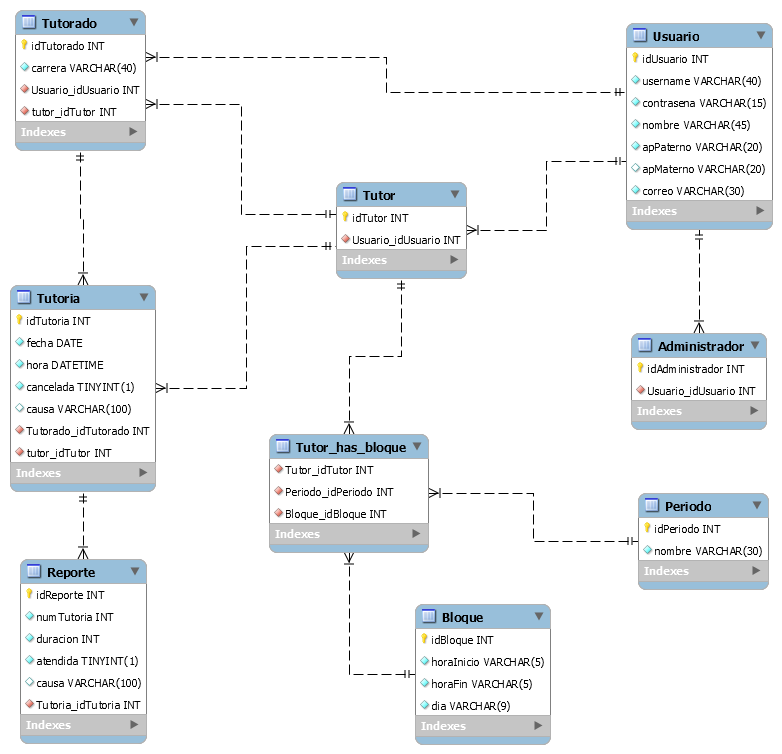
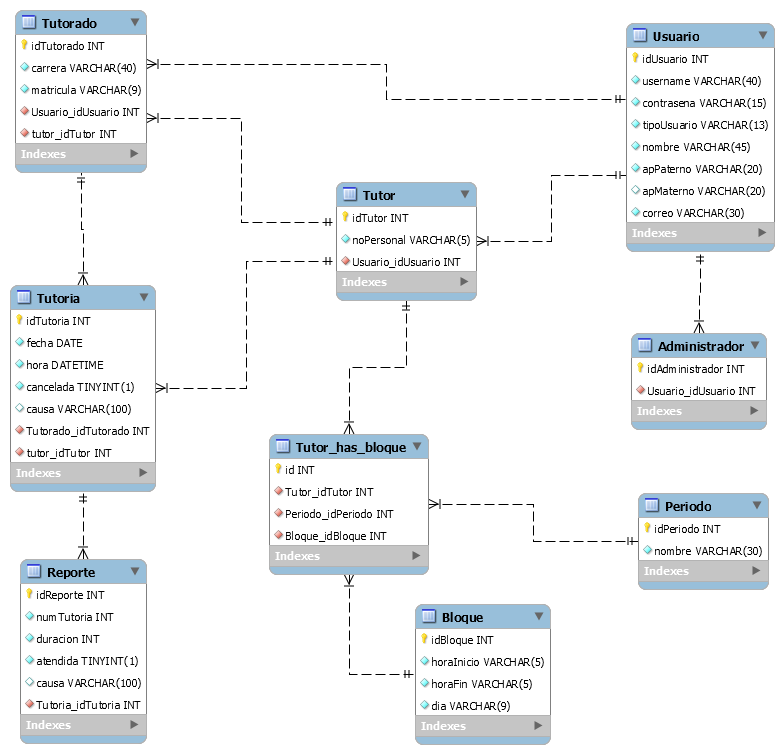
Se agregó funcionalidad a los casos de uso del administrador

diff --git a/TutoCitasCliente/src/fxml/RegistrarTutoradoController.java b/TutoCitasCliente/src/fxml/RegistrarTutoradoController.java
@@ -1,14 +1,32 @@
 package fxml;
 
+import cliente.Cliente;
+import contexto.Contexto;
+import entidades.Tutor;
+import entidades.Tutorado;
+import entidades.Usuario;
+import interfaces.InterfazServidor;
+import java.io.IOException;
 import java.net.URL;
+import java.rmi.RemoteException;
+import java.util.List;
 import java.util.ResourceBundle;
+import javafx.collections.FXCollections;
+import javafx.collections.ObservableList;
+import javafx.event.ActionEvent;
 import javafx.fxml.FXML;
+import javafx.fxml.FXMLLoader;
 import javafx.fxml.Initializable;
+import javafx.scene.Parent;
+import javafx.scene.Scene;
+import javafx.scene.control.Alert;
+import javafx.scene.control.Alert.AlertType;
 import javafx.scene.control.Button;
 import javafx.scene.control.ComboBox;
 import javafx.scene.control.Label;
 import javafx.scene.control.PasswordField;
 import javafx.scene.control.TextField;
+import javafx.stage.Stage;
 
 /**
  * FXML Controller class
@@ -35,13 +53,90 @@ public class RegistrarTutoradoController implements Initializable {
   @FXML private TextField txfCorreo;
   @FXML private TextField txfMatricula;
   @FXML private TextField txfNombre;
+  
+  private Cliente cliente;
+  private InterfazServidor servidor;
+  private List<Tutor> tutores;
+  
+  @FXML
+  void cancelar(ActionEvent evt) throws IOException {
+    //Se cierra la ventana
+    Stage stageRegistrarTutorado;
+    stageRegistrarTutorado = (Stage) btnCancelar.getScene().getWindow();
+    stageRegistrarTutorado.close();
+    //Se regresa al menú del administrador
+    Stage stageMenuAdministrador = new Stage();
+    FXMLLoader loader = new FXMLLoader();
+    loader.setLocation(getClass().getResource("/fxml/MenuAdministrador.fxml"));
+    Parent root = loader.load();
+    Scene scene = new Scene(root);
+    stageMenuAdministrador.setScene(scene);
+    stageMenuAdministrador.show();
+  }
+  
+  @FXML
+  void registrar(ActionEvent evt) throws IOException {
+    String nombre = txfNombre.getText();
+    String apPaterno = txfApPaterno.getText();
+    String apMaterno = txfApMaterno.getText();
+    String correo = txfCorreo.getText();
+    String carrera = txfCarrera.getText();
+    String matricula = txfMatricula.getText();
+    String contrasena = pwfContrasena.getText();
+    Tutor tutor = (Tutor) cmbTutor.getValue();
+    if (!nombre.isEmpty() && !apPaterno.isEmpty() && !correo.isEmpty() && !carrera.isEmpty()
+        && !matricula.isEmpty() && !contrasena.isEmpty()) {
+      //Se crea el usuario
+      Usuario usuario = new Usuario(matricula, contrasena, "Tutorado", nombre, apPaterno, correo);
+      if (!apMaterno.isEmpty()) {
+        usuario.setApMaterno(apMaterno);
+      }
+      //Se crea el tutorado
+      Tutorado tutorado = new Tutorado();
+      tutorado.setCarrera(carrera);
+      tutorado.setMatricula(matricula);
+      tutorado.setTutoridTutor(tutor);
+      //Se llama al método para registrar el tutor
+      servidor.registrarTutorado(usuario, tutorado);
+      //Se cierra la ventana
+      Stage stageRegistrarTutorado;
+      stageRegistrarTutorado = (Stage) btnRegistrar.getScene().getWindow();
+      stageRegistrarTutorado.close();
+      //Se regresa al menú del administrador
+      Stage stageMenuAdministrador = new Stage();
+      FXMLLoader loader = new FXMLLoader();
+      loader.setLocation(getClass().getResource("/fxml/MenuAdministrador.fxml"));
+      Parent root = loader.load();
+      Scene scene = new Scene(root);
+      stageMenuAdministrador.setScene(scene);
+      stageMenuAdministrador.show();
+    } else {
+      Alert advertencia = new Alert(AlertType.WARNING);
+      advertencia.setTitle("Datos inválidos");
+      advertencia.setHeaderText("No se puede registrar a un tutorado con campos vacíos");
+      advertencia.setContentText("Por favor, llene todos los datos");
+      advertencia.showAndWait();
+    }
+  }
 
   /**
    * Initializes the controller class.
    */
   @Override
   public void initialize(URL url, ResourceBundle rb) {
-    // TODO
+    cliente = Contexto.getInstancia().getCliente();
+    servidor = Contexto.getInstancia().getServidor();
+    try {
+      tutores = servidor.consultarTutores();
+      ObservableList<Tutor> lista = FXCollections.observableArrayList(tutores);
+      cmbTutor.setItems(lista);
+    } catch (RemoteException ex) {
+      Alert error = new Alert(AlertType.ERROR);
+      error.setTitle("Error de conexión");
+      error.setHeaderText("No se pudieron recuperar los tutores de la base de datos");
+      error.setContentText("Por favor, realice el registro más tarde");
+      error.showAndWait();
+    }
   }  
   
 }

diff --git a/TutoCitasServidor/src/servidor/Servidor.java b/TutoCitasServidor/src/servidor/Servidor.java
@@ -2,9 +2,11 @@ package servidor;
 
 import entidades.Tutor;
 import entidades.TutorHasBloque;
+import entidades.Tutorado;
 import entidades.Usuario;
 import entidades.controladores.TutorHasBloqueJpaController;
 import entidades.controladores.TutorJpaController;
+import entidades.controladores.TutoradoJpaController;
 import entidades.controladores.UsuarioJpaController;
 import interfaces.InterfazCliente;
 import interfaces.InterfazServidor;
@@ -69,6 +71,16 @@ public class Servidor extends UnicastRemoteObject implements InterfazServidor {
       error.showAndWait();
     }
   }
+  
+  @Override
+  public void registrarTutorado(Usuario usuario, Tutorado tutorado) throws RemoteException {
+    EntityManagerFactory emf = Persistence.createEntityManagerFactory("TutoCitasInterfazPU");
+    UsuarioJpaController controladorUsuario = new UsuarioJpaController(emf);
+    controladorUsuario.create(usuario);
+    tutorado.setUsuarioidUsuario(usuario);
+    TutoradoJpaController controladorTutorado = new TutoradoJpaController(emf);
+    controladorTutorado.create(tutorado);
+  }
 
   @Override
   public void registrarTutor(Usuario usuario, Tutor tutor) throws RemoteException {
@@ -122,6 +134,13 @@ public class Servidor extends UnicastRemoteObject implements InterfazServidor {
   @Override
   public void cerrarSesion(InterfazCliente cliente) throws RemoteException {
     clientes.remove(cliente);
+  }
+  
+  @Override
+  public List<Tutor> consultarTutores() throws RemoteException {
+    TutorJpaController controlador = new TutorJpaController(Persistence.createEntityManagerFactory("TutoCitasInterfazPU"));
+    List<Tutor> tutores = controlador.findTutorEntities();
+    return tutores;
   }
   
   private synchronized void hacerCallback() throws RemoteException {

diff --git a/TutoCitasInterfaz/src/interfaces/InterfazServidor.java b/TutoCitasInterfaz/src/interfaces/InterfazServidor.java
@@ -2,9 +2,11 @@ package interfaces;
 
 import entidades.Tutor;
 import entidades.TutorHasBloque;
+import entidades.Tutorado;
 import entidades.Usuario;
 import java.rmi.Remote;
 import java.rmi.RemoteException;
+import java.util.List;
 
 /**
  *
@@ -12,6 +14,7 @@ import java.rmi.RemoteException;
  */
 public interface InterfazServidor extends Remote {
   
+  public void registrarTutorado(Usuario usuario, Tutorado tutorado) throws RemoteException;
   public void registrarTutor(Usuario usuario, Tutor tutor) throws RemoteException ;
   public void registrarHorarios(TutorHasBloque horarios) throws RemoteException;
   public void setAtendida() throws RemoteException;
@@ -20,5 +23,6 @@ public interface InterfazServidor extends Remote {
   public void generarReporte() throws RemoteException;
   public Usuario iniciarSesion(InterfazCliente cliente, String username, String contrasena) throws RemoteException;
   public void cerrarSesion(InterfazCliente cliente) throws RemoteException;
+  public List<Tutor> consultarTutores() throws RemoteException;
   
 }

diff --git a/TutoCitasInterfaz/src/entidades/Tutor.java b/TutoCitasInterfaz/src/entidades/Tutor.java
@@ -132,7 +132,9 @@ public class Tutor implements Serializable {
 
   @Override
   public String toString() {
-    return "entidades.Tutor[ idTutor=" + idTutor + " ]";
+    //return "entidades.Tutor[ idTutor=" + idTutor + " ]";
+    return noPersonal + " - " + usuarioidUsuario.getNombre() + " " + usuarioidUsuario.getApPaterno()
+        + " " + usuarioidUsuario.getApMaterno();
   }
 
   @XmlTransient

diff --git a/TutoCitasInterfaz/src/entidades/Usuario.java b/TutoCitasInterfaz/src/entidades/Usuario.java
@@ -212,7 +212,7 @@ public class Usuario implements Serializable {
 
   @Override
   public String toString() {
-    return "entidades.Usuario[ idUsuario=" + idUsuario + " ]";
+    return nombre + " " + apPaterno + " " + apMaterno;
   }
   
 }
